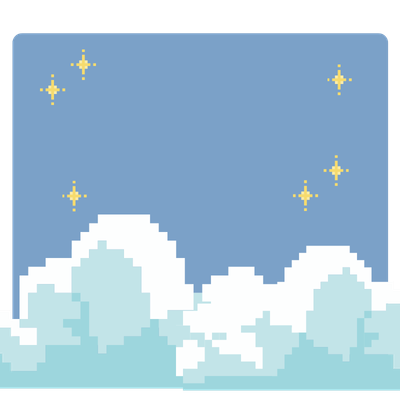
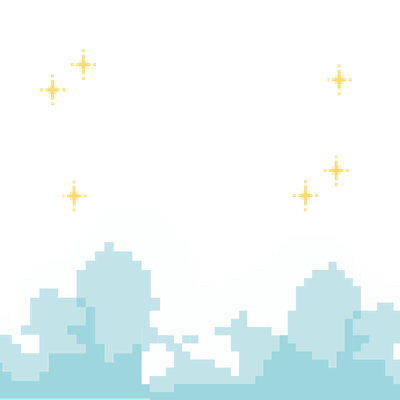
Add alarm sound, fix alarm sound synchronization, add status messages, fix design issue

diff --git a/src/App.tsx b/src/App.tsx
@@ -1,15 +1,17 @@
-import React, { useState, useEffect } from 'react';
+import React, { useState, useEffect, useRef } from 'react';
 import './App.css';
 
-//Placeholder for audio path
-const meowSound = "https://www.soundjay.com/misc/sounds/cat-meow-1.mp3";
+// Audio path
+const meowSound = "../public/cat-alarm.mp3";
 
 function App() {
   // Variables
   const [timeLeft, setTimeLeft] = useState<number>(25 * 60); // 25 minutes in seconds
   const [isRunning, setIsRunning] = useState<boolean>(false); // Is the countdown active?
   const [isBreak, setIsBreak] = useState<boolean>(false); // Work mode (false) or break mode (true)
-  
+  const [statusMessage, setStatusMessage] = useState<string>(""); // Status message to display
+  const audioRef = useRef<HTMLAudioElement | null>(null); // Ref to manage the audio element
+
   // The timer countdown effect
   useEffect(() => {
       let timer: NodeJS.Timeout;
@@ -25,12 +27,47 @@ function App() {
     // The alarm effect
     useEffect(() => {
       if (timeLeft === 0 && isRunning) {
-        const audio = new Audio(meowSound);
-        audio.play().catch(err => console.error("Audio play blocked until user interaction:", err));
-        setIsRunning(false); // Stop the timer
-        alert(isBreak ? "Break's over! Time to work!" : "Time's up! Take a break!"); // Alert the user
+        // Play the audio immediately when the timer hits zero
+        audioRef.current = new Audio(meowSound);
+        audioRef.current.play().catch(err => console.error("Error playing sound:", err));
+
+        // Turn off the active countdown motor
+        setIsRunning(false);
+
+        // Set dynamic time-up text display
+        if (isBreak) {
+          setStatusMessage("Break's over! Time to get back to work!");
+
+          // Wait 8 seconds before resetting the timer for the next work session
+          setTimeout(() => {
+            // Stop the audio explicitly before resetting the timer
+            if (audioRef.current) {
+              audioRef.current.pause();
+              audioRef.current.currentTime = 0; // Reset audio to the beginning
+            }
+
+            setTimeLeft(25 * 60); // Reset to 25 minutes for work
+            setIsBreak(false); // Switch back to work mode
+            setStatusMessage(""); // Clear the status message
+          }, 8000);
+        } else {
+            setStatusMessage("Time's up! Take a break!");
+
+            // Wait 8 seconds before resetting the timer for the next break session
+            setTimeout(() => {
+              // Stop the audio explicitly before resetting the timer
+              if (audioRef.current) {
+                audioRef.current.pause();
+                audioRef.current.currentTime = 0; // Reset audio to the beginning
+              }
+
+              setTimeLeft(5 * 60); // Reset to 5 minutes for break
+              setIsBreak(true); // Switch to break mode
+              setStatusMessage(""); // Clear the status message
+            }, 8000);
+        }
       }
-    }, [timeLeft, isRunning, isBreak]); // Re-run this block whenever these three values change
+    }, [timeLeft, isRunning, isBreak, meowSound]); // Re-run this block whenever these three values change
   
     // Helper function to format time in MM:SS
     const formatTime = (seconds: number): string => {
@@ -46,6 +83,12 @@ function App() {
         setIsRunning(false);
         setTimeLeft(isBreak ? 5 * 60 : 25 * 60); 
       } else {
+        // Kill any ringing audio immediateky if someone presses play during a milestone text
+        if (audioRef.current) {
+          audioRef.current.pause();
+          audioRef.current.currentTime = 0; // Reset audio to the beginning
+        }
+        setStatusMessage(""); // Clear any milestone text if present
         // If it's idle, START the countdown
         setIsRunning(true);
       }
@@ -93,7 +136,15 @@ function App() {
 
           <div className="timer-display">
             <h1>{formatTime(timeLeft)}</h1>
-            <p>{isBreak ? "☕ Rest up!" : "💻 Stay focused!"}</p>
+            <p>
+              {statusMessage ? (
+                // If a milestone is happening, display it in a highlighted style!
+                <span className="milestone-text">🌟 {statusMessage}</span>
+              ) : (
+                // Otherwise, show the regular status message based on the current mode
+                <span>{isBreak ? "☕ Rest up!" : "💻 Stay focused!"}</span>
+              )}
+            </p>
           </div>
 
           <div className="character-display">

diff --git a/src/App.css b/src/App.css
@@ -15,10 +15,10 @@ body {
 }
 
 .container {
-  width: 400px;
-  height: 400px;
+  width: 100vw;
+  height: 100vh;
   background-color: #d6d085;
-  border-radius: 16px;
+  border-radius: 10px;
   padding: 12px;
   display: flex;
   flex-direction: column;
@@ -62,6 +62,7 @@ body {
 /* Main Content Area */
 .main-board {
   flex: 1;
+  width: 100%;
   background-color: #7ba1c8;
   border-radius: 12px;
   display: flex;
@@ -112,6 +113,17 @@ body {
   font-weight: 700;
   text-shadow: 2px 2px 0px rgba(0, 0, 0, 0.15);
   margin-bottom: 4px;
+}
+
+.milestone-text {
+  color: #ffeb3b;
+  font-weight: bold;
+  animation: blink 1s infinite alternate;
+}
+
+@keyframes blink {
+  from { opacity: 1; }
+  to { opacity: 0.6; }
 }
 
 /* Character Animation Box */

diff --git a/public/electron.js b/public/electron.js
@@ -7,6 +7,10 @@ function createMainWindow() {
     title: 'Work Faster',
     width: 400,
     height: 400,
+    minWidth: 400,
+    minHeight: 400,
+    maxWidth: 600,
+    maxHeight: 600,
     frame: false,
     titleBarStyle: 'hidden',
     webPreferences: {

diff --git a/README.md b/README.md
@@ -1,51 +1,26 @@
-<<<<<<< HEAD
-# Getting Started with Create React App
+# WORK FASTER ♡ 🐾
 
-This project was bootstrapped with [Create React App](https://github.com/facebook/create-react-app).
+A cozy, pixel-art desktop Pomodoro widget featuring a dynamic Siamese cat and golden retriever puppy companion system! Built using **React**, **TypeScript**, and **Electron** as a frameless, transparent utility to help you stay focused or rest up in style.
 
-## Available Scripts
+---
 
-In the project directory, you can run:
+## ✨ Features
 
-### `npm start`
+* **Frameless Square Desktop Widget ($400 \times 400\text{ px}$)**: Compact, sleek layout that acts like a true desktop accessory.
+* **Draggable Interface**: Click and drag the title bar anywhere on your workspace screen.
+* **Dynamic Character System**: 
+    * **Idle Mode**: Both the cat and puppy hang out together on the clouds.
+    * **Work Mode**: The cat stays active to keep you focused.
+    * **Break Mode**: The puppy takes over to watch your rest session.
+* **Tactile Audio Alerts**: Synchronized, non-blocking chimes that automatically quiet down when the next session reloads.
+* **Custom Status Messages**: Replaces annoying browser popups with clean, shifting, in-app micro-text alerts.
 
-Runs the app in the development mode.\
-Open [http://localhost:3000](http://localhost:3000) to view it in the browser.
+---
 
-The page will reload if you make edits.\
-You will also see any lint errors in the console.
+## 🛠️ Project Setup & Installation
 
-### `npm test`
+Make sure you have [Node.js](https://nodejs.org/) installed, then navigate into the directory and install the project dependencies:
 
-Launches the test runner in the interactive watch mode.\
-See the section about [running tests](https://facebook.github.io/create-react-app/docs/running-tests) for more information.
-
-### `npm run build`
-
-Builds the app for production to the `build` folder.\
-It correctly bundles React in production mode and optimizes the build for the best performance.
-
-The build is minified and the filenames include the hashes.\
-Your app is ready to be deployed!
-
-See the section about [deployment](https://facebook.github.io/create-react-app/docs/deployment) for more information.
-
-### `npm run eject`
-
-**Note: this is a one-way operation. Once you `eject`, you can’t go back!**
-
-If you aren’t satisfied with the build tool and configuration choices, you can `eject` at any time. This command will remove the single build dependency from your project.
-
-Instead, it will copy all the configuration files and the transitive dependencies (webpack, Babel, ESLint, etc) right into your project so you have full control over them. All of the commands except `eject` will still work, but they will point to the copied scripts so you can tweak them. At this point you’re on your own.
-
-You don’t have to ever use `eject`. The curated feature set is suitable for small and middle deployments, and you shouldn’t feel obligated to use this feature. However we understand that this tool wouldn’t be useful if you couldn’t customize it when you are ready for it.
-
-## Learn More
-
-You can learn more in the [Create React App documentation](https://facebook.github.io/create-react-app/docs/getting-started).
-
-To learn React, check out the [React documentation](https://reactjs.org/).
-=======
-# pomodoroapp
-a simple pomodoro app
->>>>>>> 6dc0b62af4e4d20234cc39cdd8232f6ebeb59763
+```bash
+cd work-faster
+npm install